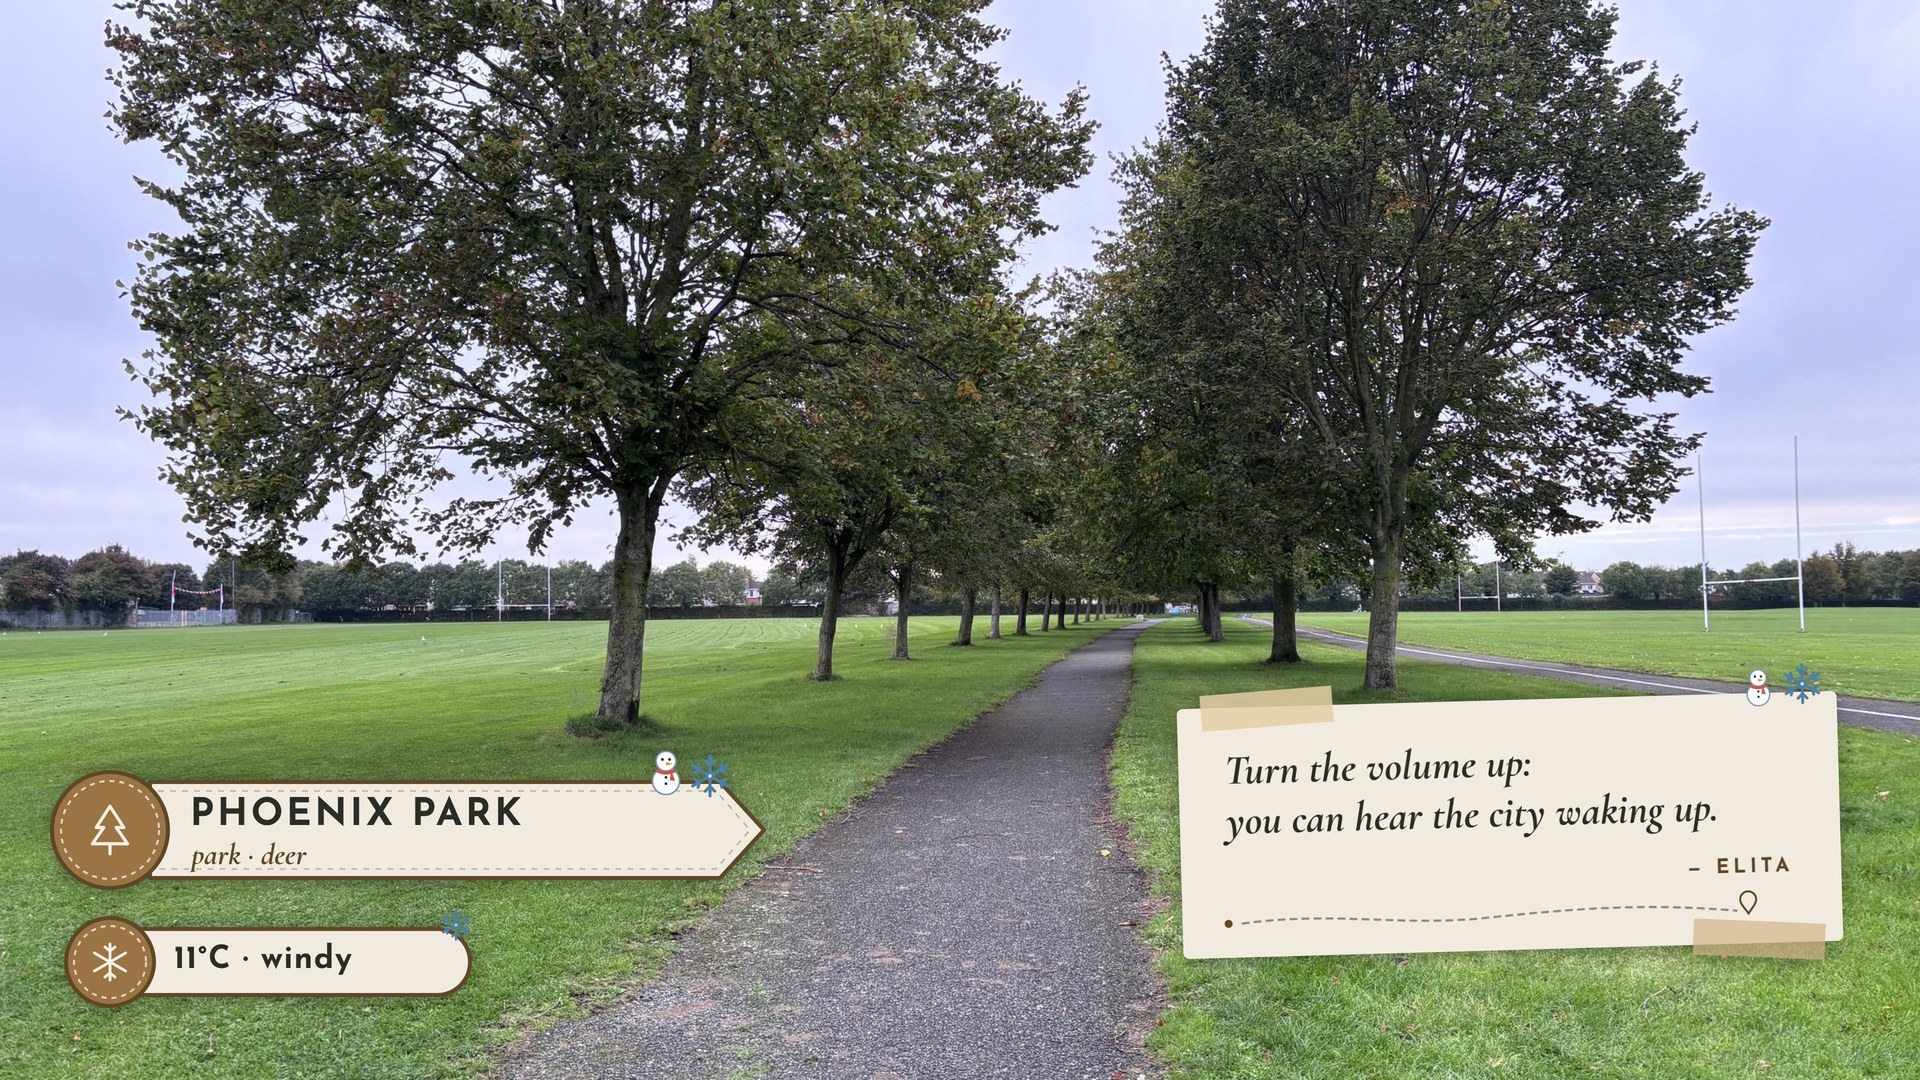
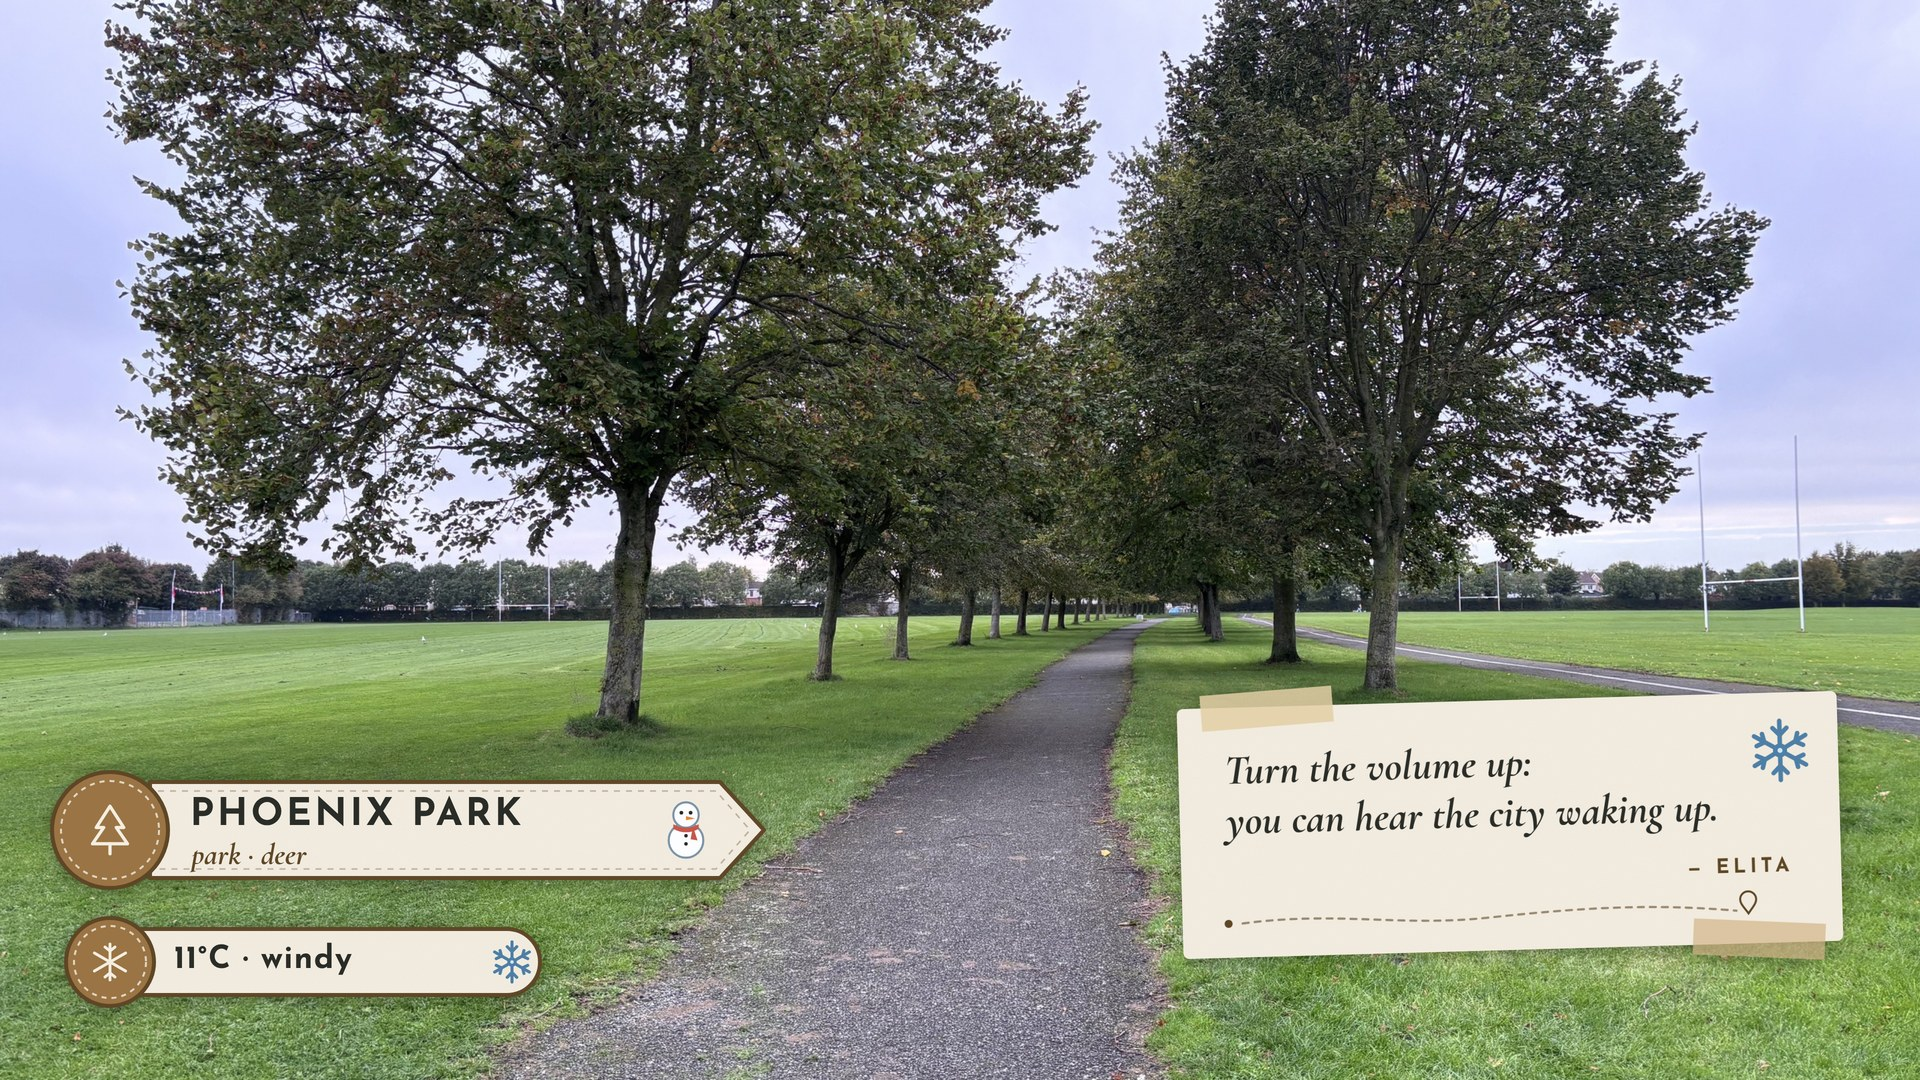
Elita: kit sendero con un solo iconito por pieza dentro del papel; sin moneda en san patricio
Claude-Session: https://claude.ai/code/session_01QcE6ahXjMRX9nuFAhFcmJW

Changed region(s): [[0.2188, 0.825, 0.2812, 0.9472], [0.9062, 0.6111, 0.9688, 0.7333], [0.3125, 0.7028, 0.375, 0.7944]]

diff --git a/elita-aventuras/scripts/sendero.py b/elita-aventuras/scripts/sendero.py
@@ -59,6 +59,30 @@ DECO={  # (junto a la punta del cartel, junto al círculo de clima, esquina de l
  'navidad':(lambda x,y:acebo(x-34,y,1.1)+bola(x+6,y+2,.85), lambda x,y:acebo(x,y,.8), lambda x,y:bola(x,y+4,.8)+acebo(x-44,y,.95)),
  'sanpatricio':(lambda x,y:trebol(x-40,y,.9,-15)+galera(x+4,y-2,.85), lambda x,y:trebol(x,y,.7,10), lambda x,y:galera(x,y,.8)+trebol(x-44,y+4,.8,-20)+moneda(x-80,y+12,.7)),
 }
+# Un solo iconito por pieza, dentro del papel beige (a la derecha, centrado en alto).
+# tamaño natural aproximado de cada dibujo (lado mayor a escala 1) para llevarlos todos al mismo tamaño
+TAM={hoja_arce:50,hoja_oval:40,calabaza:68,murcielago:42,fantasma:44,muneco:52,copo2:44,gorro:48,taza:42,sombrilla:58,sol:74,helado:56,tulipan:48,mariposa:52,acebo:50,bola:42,trebol:46,galera:50}
+def _ic(fn,*extra):
+    def f(x,y,obj):
+        sc=obj/TAM[fn]
+        if fn in (hoja_arce,hoja_oval): return fn(x,y,sc,extra[0],extra[1])
+        if fn is trebol: return fn(x,y-6*sc,sc,extra[0] if extra else 0)
+        if fn is tulipan: return fn(x,y-3*sc,sc)
+        if fn is acebo: return fn(x+2*sc,y-4*sc,sc)
+        if fn is muneco: return fn(x,y-1*sc,sc)
+        return fn(x,y,sc)
+    return f
+ICONO1={  # cartel, píldora, nota
+ 'otono':(_ic(hoja_arce,15,'#E3A040'),_ic(hoja_oval,-30,'#C8682E'),_ic(hoja_arce,-10,'#D98A3A')),
+ 'halloween':(_ic(calabaza),_ic(murcielago),_ic(fantasma)),
+ 'invierno_a':(_ic(muneco),_ic(copo2),_ic(copo2)),
+ 'invierno_b':(_ic(gorro),_ic(copo2),_ic(taza)),
+ 'verano_a':(_ic(sombrilla),_ic(sol),_ic(sol)),
+ 'verano_b':(_ic(helado),_ic(sol),_ic(helado)),
+ 'primavera':(_ic(tulipan),_ic(mariposa),_ic(mariposa)),
+ 'navidad':(_ic(acebo),_ic(bola),_ic(bola)),
+ 'sanpatricio':(_ic(trebol,-10),_ic(trebol,10),_ic(galera)),
+}
 RUIDO='<filter id="papel"><feTurbulence type="fractalNoise" baseFrequency=".9" numOctaves="2" seed="3"/><feColorMatrix values="0 0 0 0 .35  0 0 0 0 .3  0 0 0 0 .25  0 0 0 .07 0"/><feComposite in2="SourceGraphic" operator="in"/></filter>'
 SOMBRA='filter:drop-shadow(0 4px 10px rgba(0,0,0,.35))'
 # ---------- piezas ----------
@@ -70,19 +94,19 @@ def cartel(tema,nombre='',sub='',icono_n='pino'):
     s+=f'<path d="{cuerpo}" fill="{PAPEL}" stroke="{p["o"]}" stroke-width="4" stroke-linejoin="round"/><path d="{cuerpo}" fill="{PAPEL}" filter="url(#papel)"/>'
     s+=f'<path d="M{c["x0"]+8} {y0+9} H{c["x1"]-4} L{tip-14} {c["cy"]} L{c["x1"]-4} {y1-9} H{c["x0"]+8}" fill="none" stroke="{p["o"]}" stroke-opacity=".35" stroke-width="1.6" stroke-dasharray="6 6"/>'
     s+=f'<circle cx="{c["cx"]}" cy="{c["cy"]}" r="{c["r"]}" fill="{p["c"]}" stroke="{p["o"]}" stroke-width="4"/><circle cx="{c["cx"]}" cy="{c["cy"]}" r="{c["r"]-9}" fill="none" stroke="{PAPEL}" stroke-opacity=".8" stroke-width="2" stroke-dasharray="5 5"/>'
-    s+=DECO[tema][0](c['x1']-10,y0-6)+'</svg>'
+    s+=ICONO1[tema][0](c['x1']-34,c['cy'],60)+'</svg>'
     s+=f'<div style="position:absolute;left:{c["cx"]-30}px;top:{c["cy"]-30}px">{ico(icono_n,PAPEL,60,2.6)}</div>'
     if nombre:
         s+=f'<div style="position:absolute;left:{c["x0"]+40}px;top:{y0+14}px;font-family:JS;font-weight:700;font-size:38px;letter-spacing:3px;color:{TINTA}">{nombre}</div>'
         s+=f'<div style="position:absolute;left:{c["x0"]+42}px;top:{y0+54}px;font-family:CG;font-style:italic;font-weight:700;font-size:30px;color:{p["o"]}">{sub}</div>'
     return s
-PILL=dict(cx=110,cy=962,r=44,x0=140,x1=470,alto=66)
+PILL=dict(cx=110,cy=962,r=44,x0=140,x1=540,alto=66)
 def pildora(tema,texto='',cielo='viento'):
     p=PAL[tema]; c=PILL; y0=c['cy']-c['alto']/2
     s=f'<svg style="position:absolute;left:0;top:0;overflow:visible;{SOMBRA}" width="1920" height="1080"><defs>{RUIDO}</defs>'
     s+=f'<rect x="{c["x0"]-30}" y="{y0}" width="{c["x1"]-c["x0"]+30}" height="{c["alto"]}" rx="{c["alto"]/2}" fill="{PAPEL}" stroke="{p["o"]}" stroke-width="4"/><rect x="{c["x0"]-30}" y="{y0}" width="{c["x1"]-c["x0"]+30}" height="{c["alto"]}" rx="{c["alto"]/2}" fill="{PAPEL}" filter="url(#papel)"/>'
     s+=f'<circle cx="{c["cx"]}" cy="{c["cy"]}" r="{c["r"]}" fill="{p["c"]}" stroke="{p["o"]}" stroke-width="4"/><circle cx="{c["cx"]}" cy="{c["cy"]}" r="{c["r"]-8}" fill="none" stroke="{PAPEL}" stroke-opacity=".8" stroke-width="2" stroke-dasharray="5 5"/>'
-    s+=DECO[tema][1](c['x1']-14,y0-4)+'</svg>'
+    s+=ICONO1[tema][1](c['x1']-28,c['cy'],42)+'</svg>'
     s+=f'<div style="position:absolute;left:{c["cx"]-24}px;top:{c["cy"]-24}px">{ico(A.CIELOS[cielo],PAPEL,48,2.8)}</div>'
     if texto: s+=f'<div style="position:absolute;left:{c["x0"]+34}px;top:{y0+15}px;font-family:JS;font-weight:700;font-size:32px;letter-spacing:1px;color:{TINTA}">{texto}</div>'
     return s
@@ -96,7 +120,7 @@ def nota(tema,l1='',l2='',firma=True):
 <g transform="translate(46,{n["h"]-34})"><circle r="4" fill="{p["o"]}"/><path d="{d}" fill="none" stroke="{p["o"]}" stroke-opacity=".6" stroke-width="2.2" stroke-linecap="round" stroke-dasharray="6 6"/><path d="M{lw} 4 c-5 -7 -8 -10 -8 -14 a8 8 0 0 1 16 0 c0 4 -3 7 -8 14z" fill="none" stroke="{p["o"]}" stroke-width="2"/></g>
 <rect x="24" y="-16" width="132" height="36" fill="{p["s"]}" opacity=".85" transform="rotate(-3 90 2)"/>
 <rect x="{n["w"]-150}" y="{n["h"]-22}" width="132" height="36" fill="{p["c2"]}" opacity=".7" transform="rotate(4 {n["w"]-84} {n["h"]-4})"/>
-{DECO[tema][2](n["w"]-34,-8)}</svg>'''
+{ICONO1[tema][2](n["w"]-58,58,62)}</svg>'''
     if l1:
         s+=f'<div style="position:absolute;left:46px;top:38px;font-family:CG;font-style:italic;font-weight:700;font-size:42px;line-height:1.18;color:{TINTA}">{l1}<br>{l2}</div>'
         if firma: s+=f'<div style="position:absolute;right:48px;top:{n["h"]-86}px;font-family:JS;font-weight:700;font-size:20px;letter-spacing:4px;color:{p["o"]}">— ELITA</div>'
